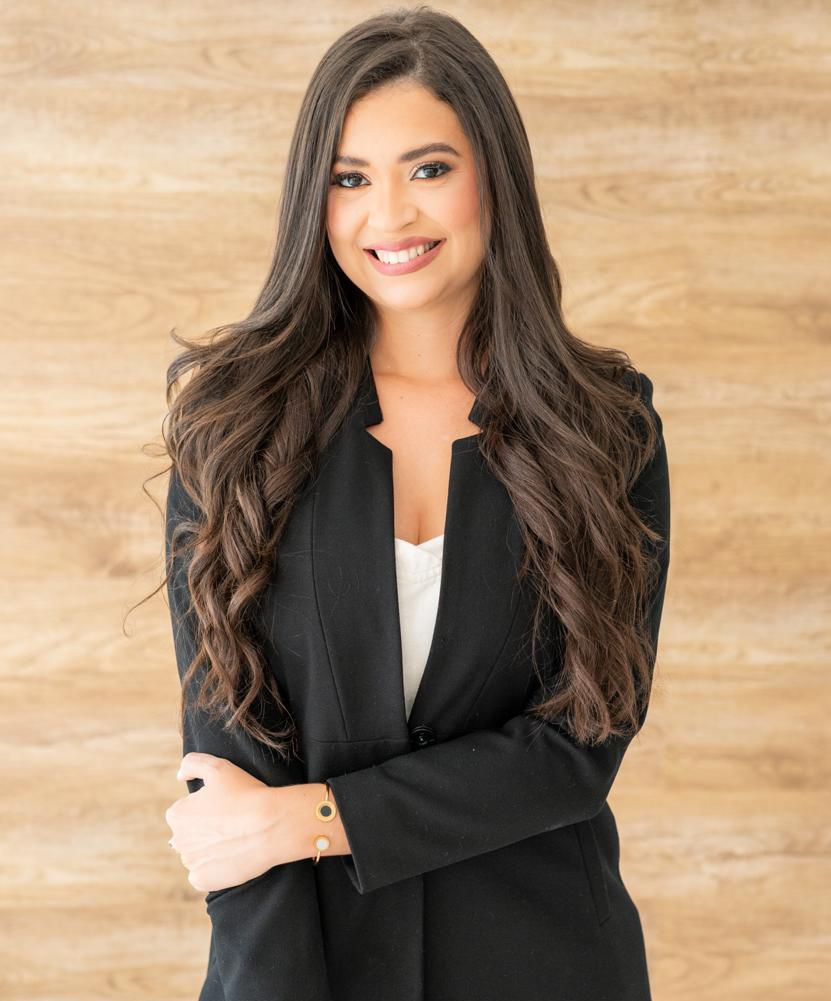
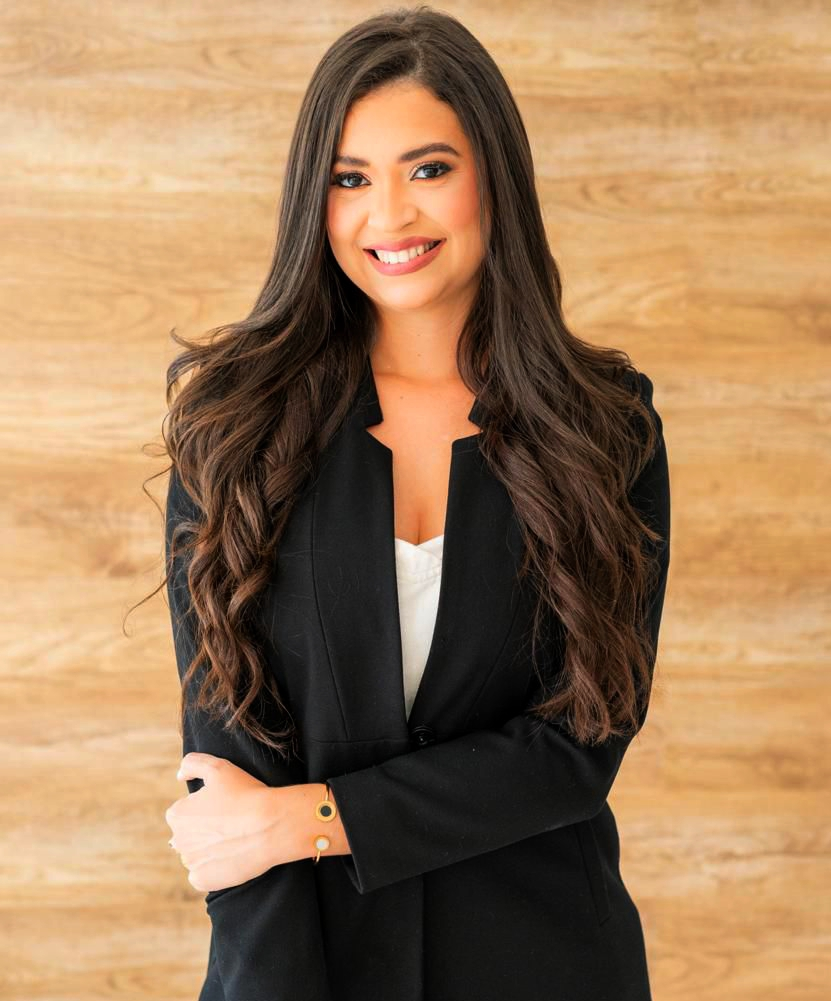
Add files via upload
novo banner e finalização da estilização estática

diff --git a/index.html b/index.html
@@ -14,7 +14,7 @@
     <header>
         <div class="container">
             <div class="logo">
-                <img src="assets/img/logomarca.png" alt="">
+                <a href=""><img src="assets/img/logomarca.png" alt=""></a>
             </div>
 
             <nav>
@@ -34,12 +34,15 @@
         <section id="home">
             <div class="bg-banner"></div>
         </section>
-        <section id="sobre">
 
+        <section id="sobre">
             <div class="container">
                 <div class="texto-sobre">
                     <h2>Advogada</h2>
-                    <p>Sou <span>Helena Albuquerque</span>, formada em direito desde 2022.</p>
+                    <p>Sou <span>Helena Albuquerque</span>, formada em direito desde 2022.
+                        Leite de capivaris, leite de mula manquis sem cabeça. Quem num gosta di mé, boa gentis num é.
+                        Aenean aliquam molestie leo, vitae iaculis nisl. Pellentesque nec nulla ligula. Donec gravida
+                        turpis a vulputate ultricies.</p>
                     <p>Mussum Ipsum, cacilds vidis litro abertis. Si u mundo tá muito paradis? Toma um mé que o mundo
                         vai
                         girarzis! Bota 1 metro de cachacis aí pra viagem! Vehicula non. Ut sed ex eros. Vivamus sit amet
@@ -118,25 +121,26 @@
                 </div>
 
                 <div class="form">
-                    <form action="">
-                        <div class="name">
-                            <label for="">Nome:</label>
-                            <input type="text">
+                    <h2>Entre em contato</h2>
+                    <form>
+                        <div class="campo">
+                            <label for="nome">Nome:</label>
+                            <input type="text" name="nome" id="nome">
                         </div>
 
-                        <div class="Telefone">
-                            <label for="">Telefone:</label>
-                            <input type="number">
+                        <div class="campo">
+                            <label for="telefone">Telefone:</label>
+                            <input type="number" name="telefone" id="telefone">
                         </div>
 
-                        <div class="email">
-                            <label for="">e-mail:</label>
-                            <input type="email">
+                        <div class="campo">
+                            <label for="email">E-mail:</label>
+                            <input type="email" name="email" id="email">
                         </div>
 
-                        <div class="mensagem">
-                            <label for="">Mensagem:</label>
-                            <input type="text">
+                        <div class="campo">
+                            <label for="mensagem">Mensagem:</label>
+                            <textarea name="mensagem" id="mensagem" style="width: 26em" rows="6"></textarea>
                         </div>
                     </form>
                 </div>
@@ -159,9 +163,9 @@
     <footer>
         <div class="container">
             <p>Todos os Direitos Reservados © 2024 Dra Leninha XD</p>
-            <p>Criado por <a href="">DesigNi</a> </p>
+            <p>Criado por <a href="">DesigNI</a> </p>
         </div>
-       
+
     </footer>
 </body>
 

diff --git a/assets/css/styles.css b/assets/css/styles.css
@@ -2,7 +2,6 @@
 @import url('https://fonts.googleapis.com/css2?family=SUSE:wght@100..800&display=swap');
 
 
-
 * {
     margin: 0;
     box-sizing: border-box;
@@ -13,7 +12,6 @@
 
 :root {
     --cor-preta: #000;
-    --cor-branca: #fff;
     --cor-fundo: #fffaf1 ;
     --cor-neutra: #c29254;
 }
@@ -55,7 +53,9 @@ header {
 li {
     list-style: none;
 }
-
+li:hover{
+    border-bottom: 2px solid var(--cor-fundo);
+}
 a {
     text-decoration: none;
     font-size: 22px;
@@ -66,7 +66,7 @@ a {
 
 .bg-banner {
     height: calc(100vh - 70px);
-    background-image: url(../img/background.jpg);
+    background-image: url(../img/banner.jpg);
     background-size: cover;
 }
 
@@ -76,6 +76,7 @@ a {
 }
 .texto-sobre h2{
 font-size: 48px;
+margin-bottom: 30px;
 }
 .texto-sobre p{
     font-size: 20px;
@@ -120,32 +121,54 @@ text-transform: uppercase;
 .card p{
     width: 200px;
 }
+.card:nth-child(4n + 4){
+    border-right: 1px solid var(--cor-neutra);
+}
 
 
 /* sessão contato */
 #contato{
     margin: 40px 0px;
 }
-.redes a{
-    font-size: 48px;
+
+.form h2{
     color: var(--cor-neutra);
+   text-transform: uppercase;
+   margin-bottom: 20px;
 }
 
-.form {
-    border: 2px solid var(--cor-neutra);
-    border-radius: 5px;
-    padding: 20px;
+.campo{
+    display: flex;
+    flex-direction: column;
+    margin-bottom: 10px;
 }
 
 .form input {
-    width: 200px;
-    height: 20px;
+    width: 340px;
+    height: 30px;
     border: none;
     border-radius: 5px;
     outline: none;
     padding: 10px;
-    background-color: #fde4bd;
+    background-color: #ffefd6;
 }
+.form textarea{
+    outline: none;
+    border: 1px solid #fde4bd;
+    border-radius: 5px;
+}
+
+.redes{
+margin-bottom: 30px;
+
+}
+.redes a{
+    font-size: 48px;
+    color: var(--cor-neutra);
+    padding: 0px;
+    margin-right: 15px;
+}
+
 
 /* rodapé*/
 
@@ -157,5 +180,6 @@ footer .container{
 
     & a{
         font-size: 16px;
+        text-transform: none;
     }
 }
